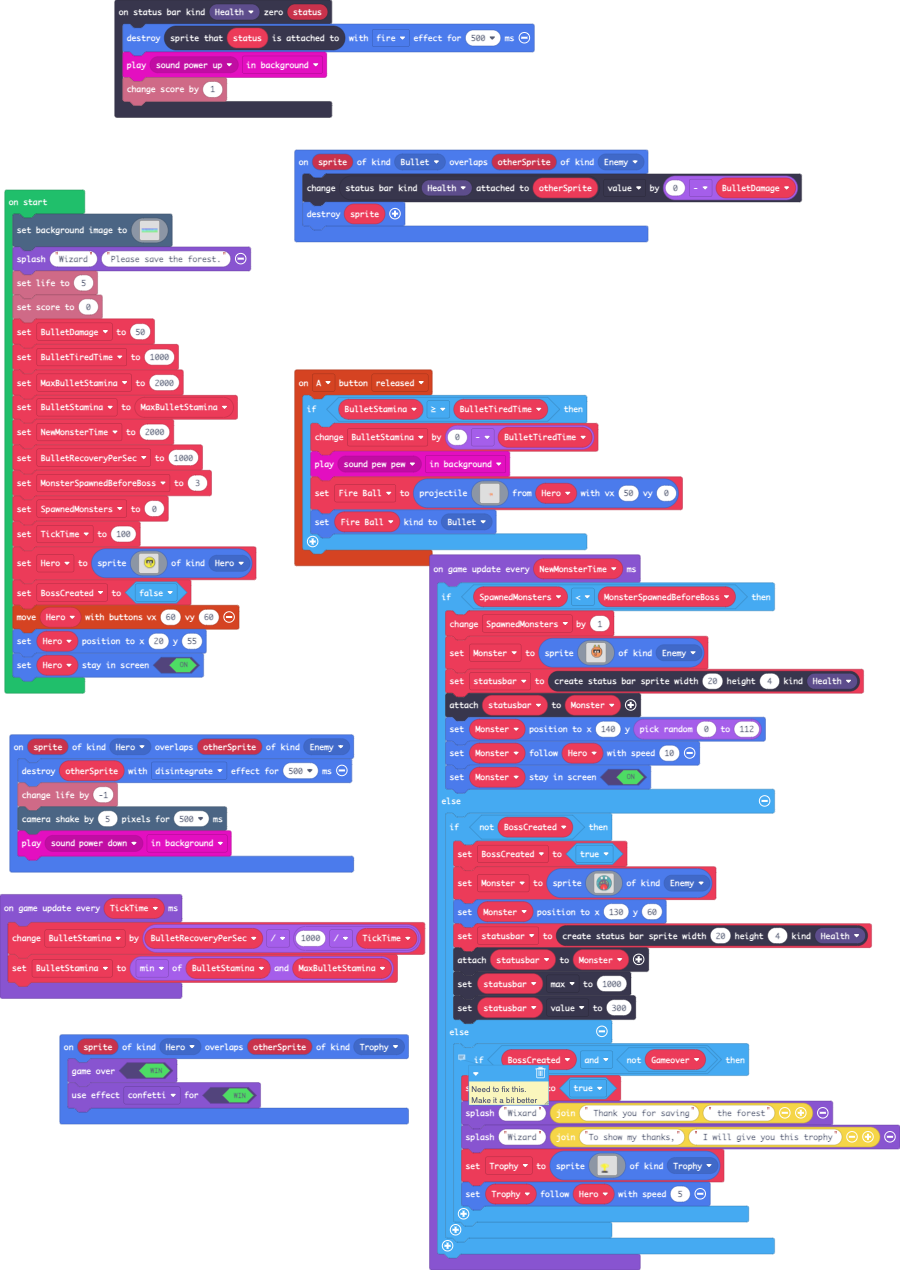
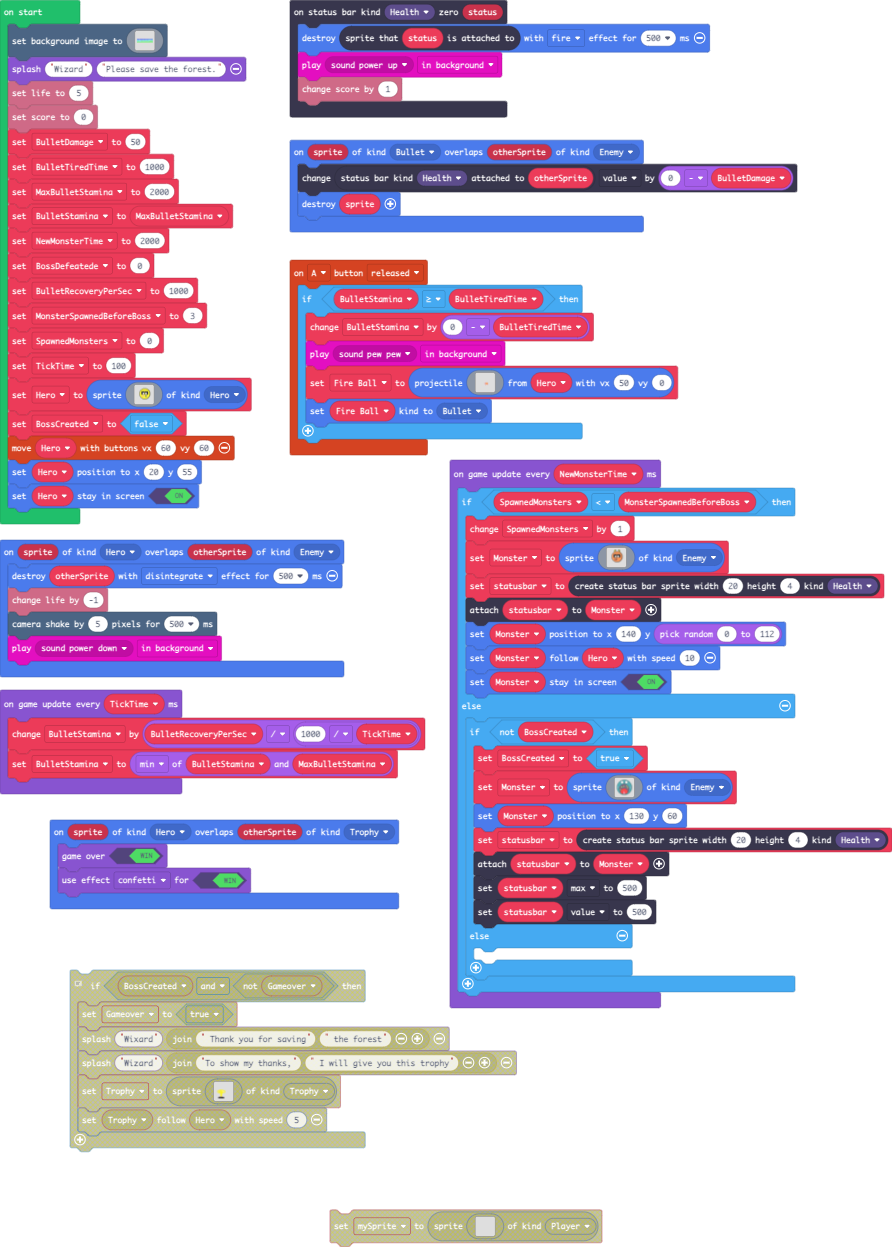
Update main.blocks, main.ts, tilemap.g.jres, tilemap.g.ts

diff --git a/main.ts b/main.ts
@@ -82,8 +82,6 @@ controller.A.onEvent(ControllerButtonEvent.Released, function () {
         Fire_Ball.setKind(SpriteKind.Bullet)
     }
 })
-let Trophy: Sprite = null
-let Gameover = false
 let statusbar: StatusBarSprite = null
 let Monster: Sprite = null
 let Fire_Ball: Sprite = null
@@ -221,6 +219,7 @@ BulletTiredTime = 1000
 let MaxBulletStamina = 2000
 BulletStamina = MaxBulletStamina
 let NewMonsterTime = 2000
+let BossDefeatede = 0
 let BulletRecoveryPerSec = 1000
 let MonsterSpawnedBeforeBoss = 3
 let SpawnedMonsters = 0
@@ -453,49 +452,10 @@ game.onUpdateInterval(NewMonsterTime, function () {
             Monster.setPosition(130, 60)
             statusbar = statusbars.create(20, 4, StatusBarKind.Health)
             statusbar.attachToSprite(Monster)
-            statusbar.max = 1000
-            statusbar.value = 300
+            statusbar.max = 500
+            statusbar.value = 500
         } else {
-            // Need to fix this.
-            // Make it a bit better
-            if (BossCreated && !(Gameover)) {
-                Gameover = true
-                game.splash("Wixard", " Thank you for saving" + " the forest")
-                game.splash("Wizard", "To show my thanks," + " I will give you this trophy")
-                Trophy = sprites.create(img`
-                    ..............................
-                    ..............................
-                    ..............................
-                    ..............................
-                    ..............................
-                    ..............................
-                    ..............................
-                    ..............................
-                    ..............................
-                    ..............................
-                    ..............................
-                    ..............................
-                    .......5555555................
-                    ....5555555515555.............
-                    ...55.555555515.55............
-                    ...5..555555515..5............
-                    ...55.555555515.55............
-                    ....5555555555555.............
-                    ........55555.................
-                    .........555..................
-                    .........555..................
-                    .........555..................
-                    .........555..................
-                    .........555..................
-                    .........555..................
-                    .......bbbbbbb................
-                    .....fffffffffff..............
-                    .....fffffffffff..............
-                    ..............................
-                    ..............................
-                    `, SpriteKind.Trophy)
-                Trophy.follow(Hero, 5)
-            }
+        	
         }
     }
 })

diff --git a/tilemap.g.ts b/tilemap.g.ts
@@ -1,43 +1,5 @@
 // Auto-generated code. Do not edit.
 namespace myTiles {
-    //% fixedInstance jres blockIdentity=images._tile
-    export const transparency16 = image.ofBuffer(hex``);
-    //% fixedInstance jres blockIdentity=images._tile
-    export const tile1 = image.ofBuffer(hex``);
-
-    helpers._registerFactory("tilemap", function(name: string) {
-        switch(helpers.stringTrim(name)) {
-            case "level1":
-            case "level1":return tiles.createTilemap(hex`1000100000000000000000000000000000000000000000000000000000000000000000000000000000000000000000000000000000000000000000000000000000000000000000000000000000000000000000000000000000000000000000000000000000000000000000000000000000000000000000000000000000000000000000000000000000000000000000000000000000000000000000000000000000000000000000000000000000000000000000000000000000000000000000000000000000000000000000000000000000000000000000000000000000000000000000000102020202020202020202020202020304050505050505050505050505050506`, img`
-. . . . . . . . . . . . . . . . 
-. . . . . . . . . . . . . . . . 
-. . . . . . . . . . . . . . . . 
-. . . . . . . . . . . . . . . . 
-. . . . . . . . . . . . . . . . 
-. . . . . . . . . . . . . . . . 
-. . . . . . . . . . . . . . . . 
-. . . . . . . . . . . . . . . . 
-. . . . . . . . . . . . . . . . 
-. . . . . . . . . . . . . . . . 
-. . . . . . . . . . . . . . . . 
-. . . . . . . . . . . . . . . . 
-. . . . . . . . . . . . . . . . 
-. . . . . . . . . . . . . . . . 
-. . . . . . . . . . . . . . . . 
-. . . . . . . . . . . . . . . . 
-`, [myTiles.transparency16,sprites.builtin.forestTiles1,sprites.builtin.forestTiles2,sprites.builtin.forestTiles3,sprites.builtin.forestTiles17,sprites.builtin.forestTiles18,sprites.builtin.forestTiles19,myTiles.tile1], TileScale.Sixteen);
-        }
-        return null;
-    })
-
-    helpers._registerFactory("tile", function(name: string) {
-        switch(helpers.stringTrim(name)) {
-            case "transparency16":return transparency16;
-            case "myTile":
-            case "tile1":return tile1;
-        }
-        return null;
-    })
 
 }
 // Auto-generated code. Do not edit.
